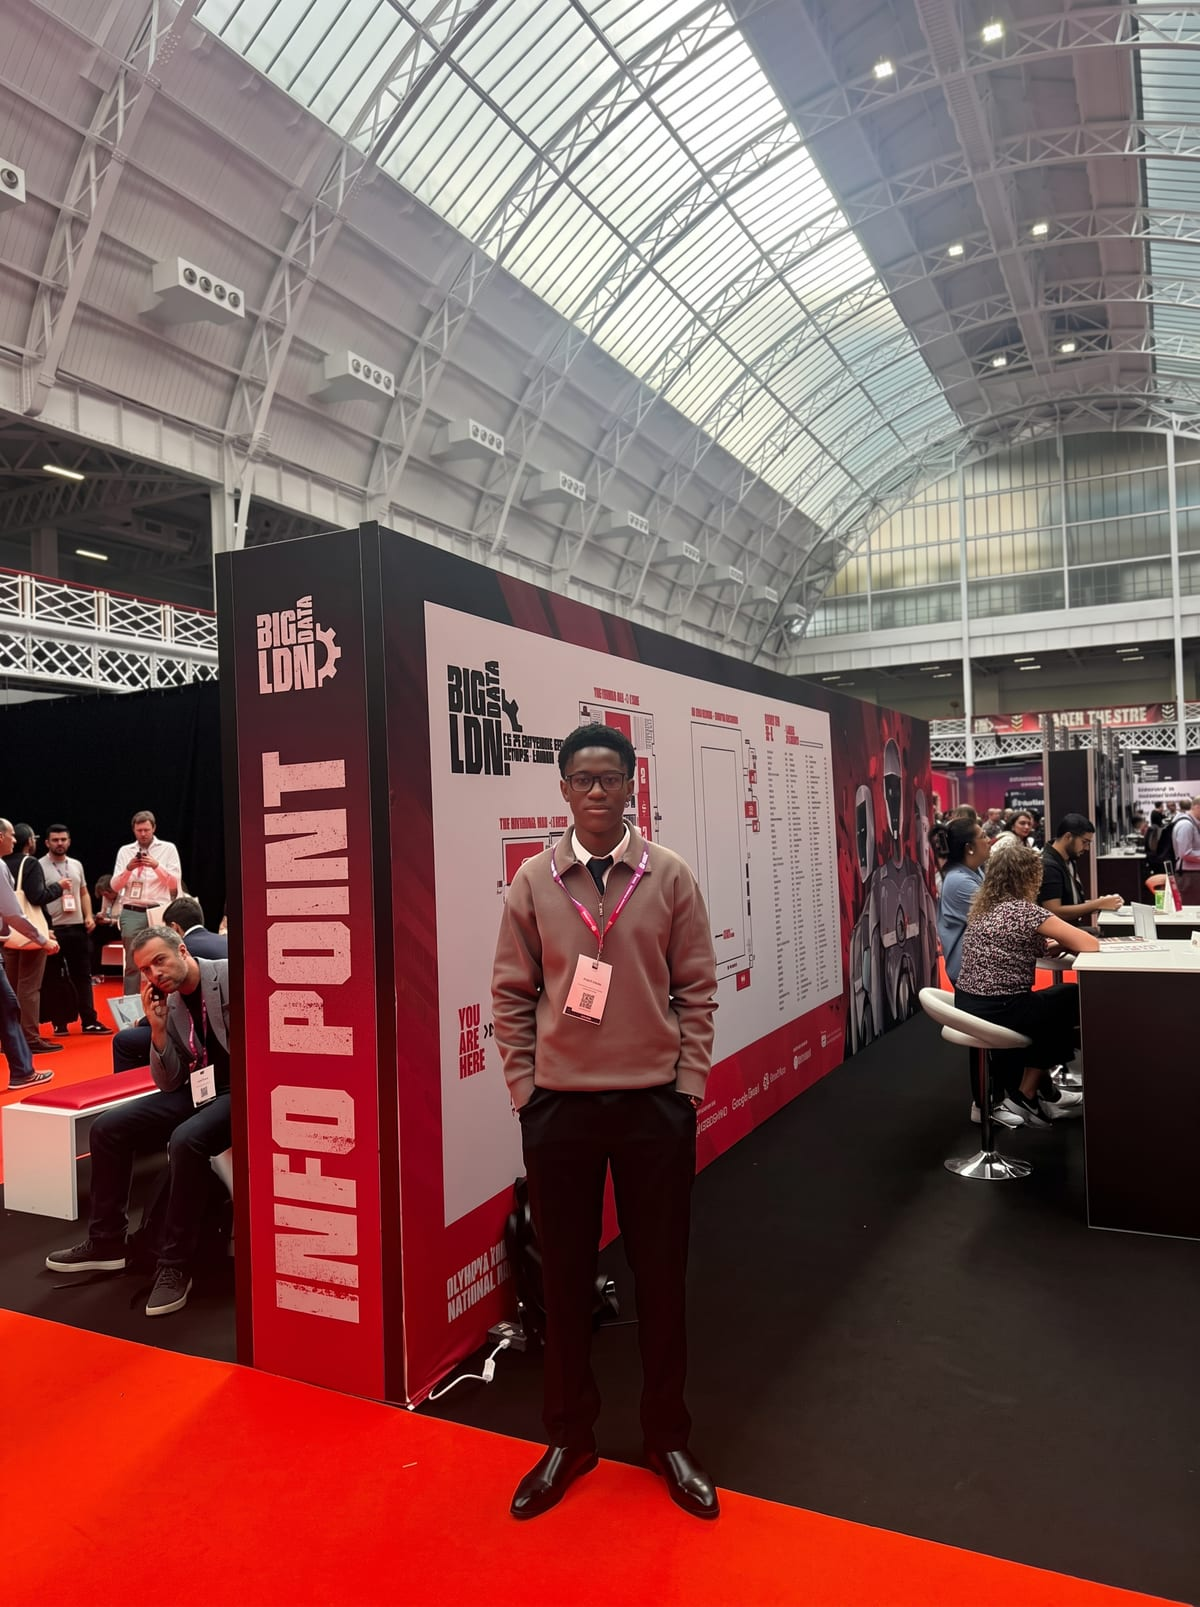
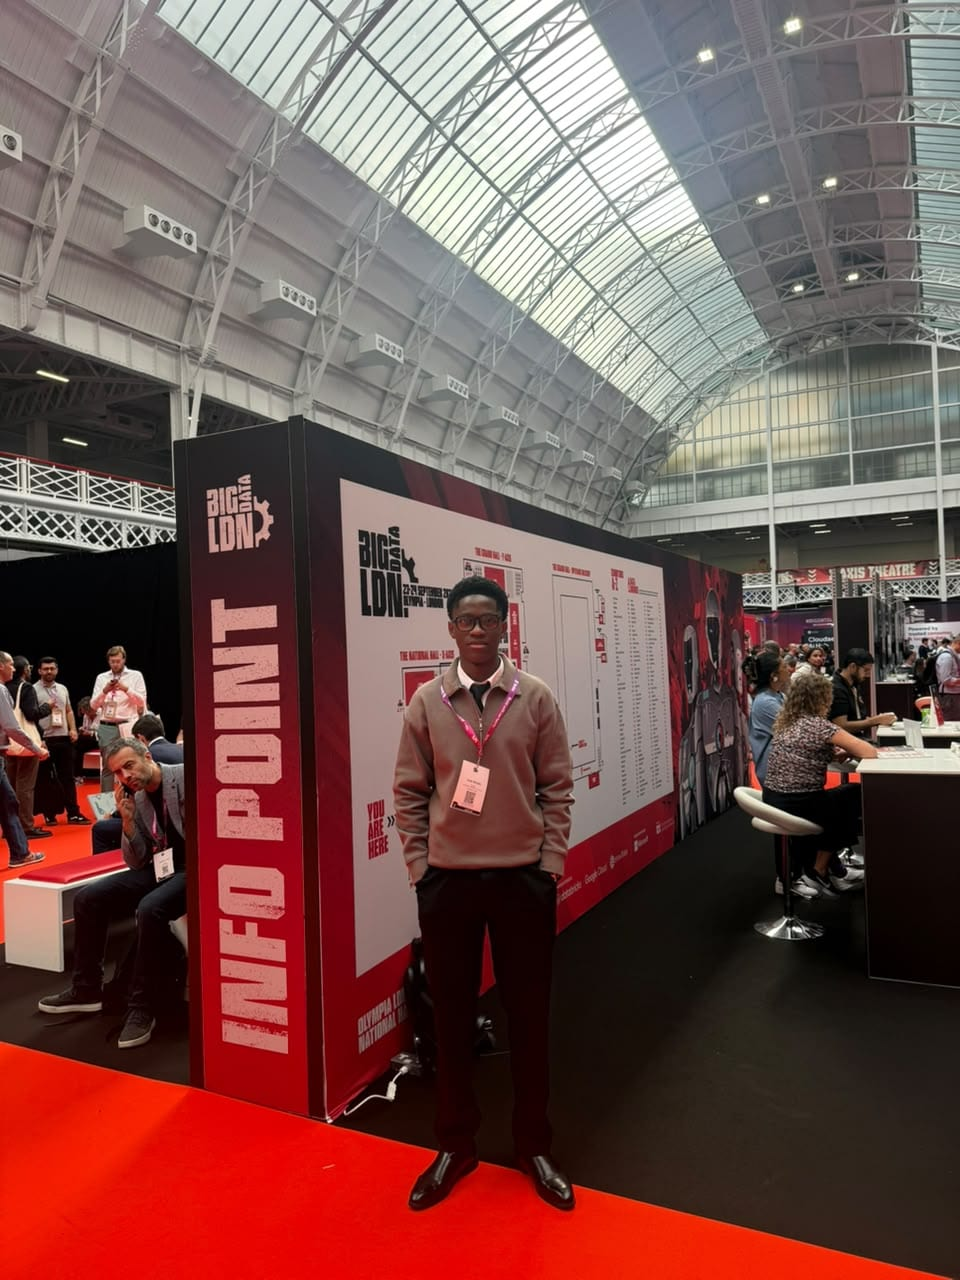
Update hero headshot and add real event photos
- Replace the hero headshot with a new photo (cropped to head and
  shoulders) and the Big Data LDN card with a fuller shot.
- Add real photos to the Forensics Europe Expo, Agentic AI London and
  Next.js Night London event cards.
- Add a per-event object-position so each card crops onto the subject.

diff --git a/src/data/profile.ts b/src/data/profile.ts
@@ -34,6 +34,8 @@ export type Event = {
   // TODO: replace each takeaway with one sentence in your own words.
   takeaway: string;
   image?: string;
+  // Optional CSS object-position for the card crop, e.g. "50% 40%".
+  pos?: string;
 };
 
 export const events: Event[] = [
@@ -43,23 +45,30 @@ export const events: Event[] = [
     topics: "AI · Data · Cloud",
     takeaway: "How organisations are scaling data and AI — and what it takes to keep it secure.",
     image: "/images/big-data-ldn.jpg",
+    pos: "50% 42%",
   },
   {
     name: "Forensics Europe Expo 2026",
     topics: "Digital Forensics · Investigation · Security",
     takeaway: "The tools and processes behind modern digital investigations.",
+    image: "/images/forensics.jpg",
+    pos: "50% 38%",
   },
   {
     name: "Agentic AI London",
     host: "Vorboss",
     topics: "AI Agents · Infrastructure",
     takeaway: "What AI agents need from the infrastructure underneath them.",
+    image: "/images/agentic.jpg",
+    pos: "60% 32%",
   },
   {
     name: "Next.js Night London",
     host: "Vercel Community",
     topics: "Web · Next.js · Developer Ecosystem",
     takeaway: "Where the modern web platform is heading, from the people building it.",
+    image: "/images/nextjs.jpg",
+    pos: "50% 40%",
   },
 ];
 

diff --git a/src/app/page.tsx b/src/app/page.tsx
@@ -102,8 +102,8 @@ function Hero() {
             <Image
               src="/images/headshot.jpg"
               alt={`Portrait of ${site.name}`}
-              width={1200}
-              height={1490}
+              width={1000}
+              height={1250}
               sizes="(min-width: 768px) 360px, 90vw"
               loading="eager"
               fetchPriority="high"
@@ -245,7 +245,8 @@ function Events() {
                     alt={`${site.name} at ${e.name}`}
                     fill
                     sizes="340px"
-                    className="object-cover object-[50%_60%]"
+                    style={{ objectPosition: e.pos ?? "50% 50%" }}
+                    className="object-cover"
                   />
                 ) : (
                   <div className="absolute inset-0 flex items-end bg-[radial-gradient(circle_at_30%_20%,rgb(124_92_255/0.35),transparent_60%)] p-6">

diff --git a/src/app/layout.tsx b/src/app/layout.tsx
@@ -34,7 +34,7 @@ export const metadata: Metadata = {
     url: "/",
     title: `${site.name} — Cybersecurity Student`,
     description,
-    images: [{ url: "/images/headshot.jpg", width: 1200, height: 1490, alt: site.name }],
+    images: [{ url: "/images/headshot.jpg", width: 1000, height: 1250, alt: site.name }],
   },
   twitter: { card: "summary_large_image" },
 };
